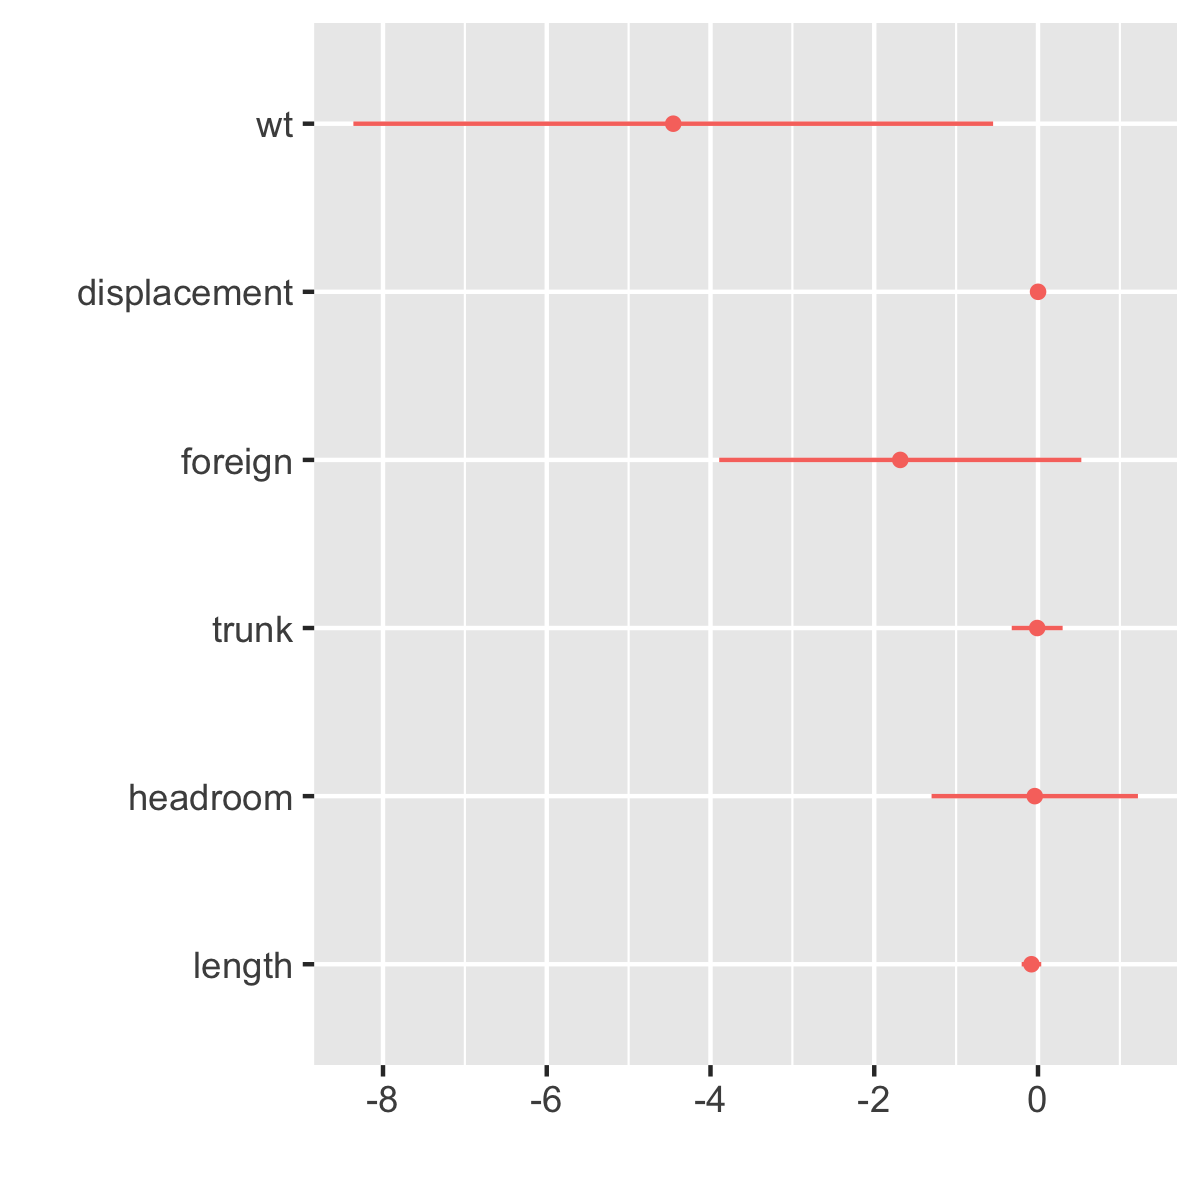
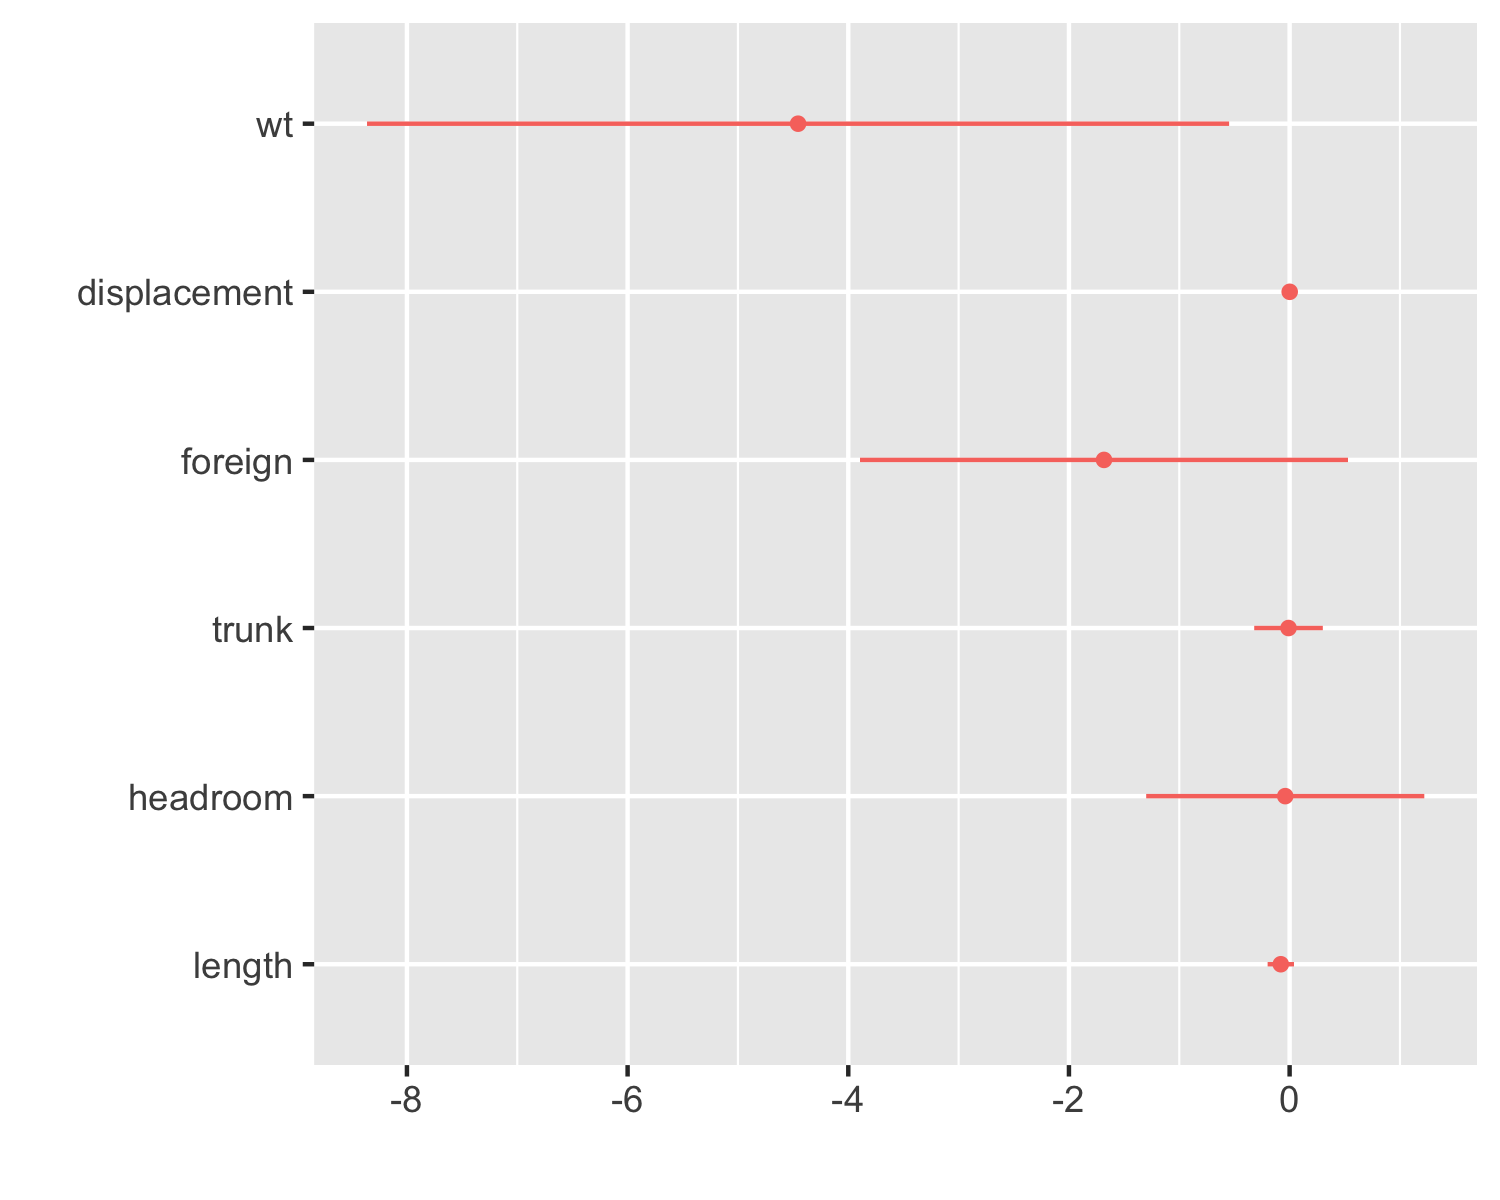
rebuilding site Wed Aug 15 14:39:56 CDT 2018

diff --git a/blog/1/01/01.html b/blog/1/01/01.html
@@ -1,4 +1,7 @@
-<p>Version 6.0 of the SWIID is <a href="http://fsolt.org/swiid/swiid_downloads.html">now available</a>! It represents a complete, starting from scratch, end-to-end revision, with all the heavy lifting <a href="https://github.com/fsolt/swiid">now done using #rstats and Stan</a>.</p>
-<pre><code>## Warning: package &#39;dplyr&#39; was built under R version 3.5.1</code></pre>
-<p><img src="2017-07-27-swiid-version-6-0-is-available_files/figure-html/unnamed-chunk-1-1.png" width="672" /></p>
-<p>As always, I encourage users of the SWIID to <a href="mailto:frederick-solt@uiowa.edu">email me</a> with their comments, questions, and suggestions.</p>
+<p>Version 7.1 of the SWIID is <a href="http://fsolt.org/swiid/swiid_downloads.html">now available</a>! In addition to important behind-the-scenes improvements to the estimation routine, this new release:</p>
+<ul>
+<li><p>adds to <a href="https://github.com/fsolt/swiid/blob/master/data/swiid_source.csv">its source data</a> 627 new Ginis since version 6.2, including <a href="http://www.lisdatacenter.org/news-and-events/2018-summer-data-release/">newly available LIS data on Chile, Germany, Hungary, Poland, and Israel</a>; and</p></li>
+<li><p>includes estimates of market and disposable income inequality for 80 more country-years than version 6.2.</p></li>
+</ul>
+<p><img src="2018-08-14-swiid-version-7-1-now-available_files/figure-html/swiid_v71-1.png" width="672" /></p>
+<p>For more details, you can check out the all the R and Stan code used to generate the estimates <a href="https://github.com/fsolt/swiid">in the SWIID GitHub repository</a>. As always, I encourage users of the SWIID to <a href="mailto:frederick-solt@uiowa.edu">email me</a> with their comments, questions, and suggestions.</p>

diff --git a/blog/2018/08/15/switch-to-r.html b/blog/2018/08/15/switch-to-r.html
@@ -203,12 +203,12 @@ auto_results &lt;- read_dta(&quot;~/Desktop/R_Stata/auto_results.dta&quot;) %&gt
     std.error = stderr) %&gt;% 
     filter(term != &quot;_cons&quot;);
 dwplot(auto_results);
-ggsave(&quot;~/Desktop/R_Stata/auto_results.png&quot;, width = 4, height = 4);
+ggsave(&quot;~/Desktop/R_Stata/auto_results.png&quot;, width = 5, height = 4);
 
 END_OF_R
 </code></pre>
 <div class="figure">
-<img src="/post/2018-08-15-switch-to-r_files/auto_results.png" width="500" height="500" />
+<img src="/post/2018-08-15-switch-to-r_files/auto_results.png" width="500" height="400" />
 
 </div>
 </div>
@@ -235,7 +235,7 @@ stata(&quot;sum a&quot;, data.in = x)                         </code></pre>
 ## 
 ##     Variable |       Obs        Mean    Std. Dev.       Min        Max
 ## -------------+--------------------------------------------------------
-##            a |         3    .0877408    1.151885  -1.182911   1.063541</code></pre>
+##            a |         3    .1614061    1.567612  -1.604414   1.389018</code></pre>
 <pre class="r"><code>## Data output from Stata (e.g., obtain &#39;auto&#39; dataset)
 auto &lt;- stata(&quot;sysuse auto&quot;, data.out = TRUE)</code></pre>
 <pre><code>## . sysuse auto

diff --git a/blog/index.html b/blog/index.html
@@ -202,12 +202,12 @@ auto_results &lt;- read_dta(&quot;~/Desktop/R_Stata/auto_results.dta&quot;) %&gt
     std.error = stderr) %&gt;% 
     filter(term != &quot;_cons&quot;);
 dwplot(auto_results);
-ggsave(&quot;~/Desktop/R_Stata/auto_results.png&quot;, width = 4, height = 4);
+ggsave(&quot;~/Desktop/R_Stata/auto_results.png&quot;, width = 5, height = 4);
 
 END_OF_R
 </code></pre>
 <div class="figure">
-<img src="/post/2018-08-15-switch-to-r_files/auto_results.png" width="500" height="500" />
+<img src="/post/2018-08-15-switch-to-r_files/auto_results.png" width="500" height="400" />
 
 </div>
 </div>
@@ -234,7 +234,7 @@ stata(&quot;sum a&quot;, data.in = x)                         </code></pre>
 ## 
 ##     Variable |       Obs        Mean    Std. Dev.       Min        Max
 ## -------------+--------------------------------------------------------
-##            a |         3    .0877408    1.151885  -1.182911   1.063541</code></pre>
+##            a |         3    .1614061    1.567612  -1.604414   1.389018</code></pre>
 <pre class="r"><code>## Data output from Stata (e.g., obtain &#39;auto&#39; dataset)
 auto &lt;- stata(&quot;sysuse auto&quot;, data.out = TRUE)</code></pre>
 <pre><code>## . sysuse auto
